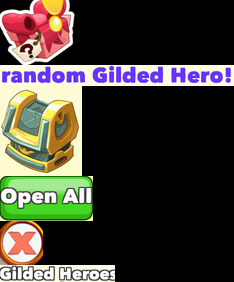
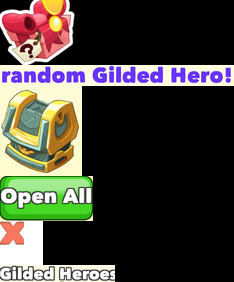
Exclude changing scenery from control templates

Changed region(s): [[0.0, 0.766, 0.2094, 0.9645]]

diff --git a/control_background_test.go b/control_background_test.go
@@ -1,0 +1,67 @@
+package main
+
+import (
+	"fmt"
+	"image"
+	"image/color"
+	"image/draw"
+	"testing"
+)
+
+func TestControlsIgnoreSurroundingScenery(t *testing.T) {
+	cases := []struct {
+		name, fixture string
+		core          image.Rectangle
+		find          func(image.Image) (image.Point, bool, error)
+	}{
+		{"menu close", "save-menu.png", image.Rect(1006, 137, 1034, 165), func(img image.Image) (image.Point, bool, error) { return saveControl(img, 1) }},
+		{"settings", "ascension-ancients.png", image.Rect(1233, 17, 1255, 39), func(img image.Image) (image.Point, bool, error) { return saveControl(img, 2) }},
+		{"ascension", "ascension-ancients.png", image.Rect(1237, 247, 1251, 263), func(img image.Image) (image.Point, bool, error) { return ascensionControl(img, ascensionSpiral) }},
+		{"gild close", "gild-roster.png", image.Rect(1137, 27, 1161, 51), func(img image.Image) (image.Point, bool, error) {
+			return gildActionPoint(gameFrame{image: img, context: gameContext{modal: gildRosterModal}})
+		}},
+		{"single gild close", "gild-reward.png", image.Rect(982, 116, 1006, 140), func(img image.Image) (image.Point, bool, error) {
+			return gildActionPoint(gameFrame{image: img, context: gameContext{modal: gildRewardModal}})
+		}},
+	}
+	backgrounds := []color.Color{color.Black, color.White, color.RGBA{0, 170, 230, 255}}
+	for _, tc := range cases {
+		for _, width := range []int{1280, 2560} {
+			original := exportFixture(t, tc.fixture, width)
+			core := controlRect(original, tc.core)
+			for bg, background := range backgrounds {
+				for _, state := range []string{"present", "missing", "wrong"} {
+					t.Run(fmt.Sprintf("%s/%d/background%d/%s", tc.name, width, bg, state), func(t *testing.T) {
+						img := image.NewRGBA(original.Bounds())
+						draw.Draw(img, img.Bounds(), original, original.Bounds().Min, draw.Src)
+						// Hide Open All so the single-reward path must recognize its X.
+						if tc.name == "single gild close" {
+							draw.Draw(img, controlRect(img, image.Rect(885, 528, 989, 583)), image.NewUniform(background), image.Point{}, draw.Src)
+						}
+						draw.Draw(img, core.Inset(-20*width/1280), image.NewUniform(background), image.Point{}, draw.Src)
+						switch state {
+						case "present":
+							draw.Draw(img, core, original, core.Min, draw.Src)
+						case "wrong":
+							// An unrelated striped shape must not identify an icon.
+							for y := core.Min.Y; y < core.Max.Y; y++ {
+								shade := color.Black
+								if (y-core.Min.Y)/(3*width/1280)%2 == 0 {
+									shade = color.White
+								}
+								draw.Draw(img, image.Rect(core.Min.X, y, core.Max.X, y+1), image.NewUniform(shade), image.Point{}, draw.Src)
+							}
+						}
+						point, found, err := tc.find(img)
+						if err != nil || found != (state == "present") {
+							t.Fatalf("point=%v found=%v error=%v", point, found, err)
+						}
+						if found && !point.In(core) {
+							t.Fatalf("click outside icon: %v", point)
+						}
+					})
+				}
+			}
+		}
+	}
+}

diff --git a/save_export.go b/save_export.go
@@ -13,8 +13,9 @@ var saveControlsPNG []byte
 var saveControlsImage decodedPNG
 
 func saveControl(screen image.Image, which int) (image.Point, bool, error) {
-	regions := [...]image.Rectangle{image.Rect(290, 192, 449, 216), image.Rect(997, 133, 1042, 177), image.Rect(1225, 9, 1264, 48)}
-	refs := [...]image.Rectangle{image.Rect(0, 0, 318, 48), image.Rect(0, 48, 90, 136), image.Rect(0, 136, 78, 214)}
+	// Icon patches stay inside the opaque artwork, excluding surrounding scenery.
+	regions := [...]image.Rectangle{image.Rect(290, 192, 449, 216), image.Rect(1006, 137, 1034, 165), image.Rect(1233, 17, 1255, 39)}
+	refs := [...]image.Rectangle{image.Rect(0, 0, 318, 48), image.Rect(0, 48, 56, 104), image.Rect(0, 104, 44, 148)}
 	atlas, err := saveControlsImage.get(saveControlsPNG)
 	if err != nil {
 		return image.Point{}, false, err

diff --git a/ascension.go b/ascension.go
@@ -36,13 +36,13 @@ func ascensionControl(screen image.Image, control int) (image.Point, bool, error
 		return image.Point{}, false, nil
 	}
 	regions := [...]image.Rectangle{
-		image.Rect(1232, 240, 1255, 268), // Right-hand World Ascension spiral.
+		image.Rect(1237, 247, 1251, 263), // Opaque center of the World Ascension spiral.
 		image.Rect(502, 108, 778, 130),   // Specific Ascension dialog title.
 		image.Rect(485, 468, 625, 530),   // Yes; Quick Ascension is a different button below it.
 		image.Rect(655, 468, 796, 530),   // No.
 	}
 	references := [...]image.Rectangle{
-		image.Rect(0, 0, 46, 56), image.Rect(0, 56, 552, 100),
+		image.Rect(0, 0, 28, 32), image.Rect(0, 56, 552, 100),
 		image.Rect(0, 100, 280, 224), image.Rect(0, 224, 282, 348),
 	}
 	atlas, err := ascensionControlsImage.get(ascensionControlsPNG)

diff --git a/gilds.go b/gilds.go
@@ -117,9 +117,9 @@ func gildActionPoint(frame gameFrame) (image.Point, bool, error) {
 			return controlRect(frame.image, region).Min.Add(controlRect(frame.image, region).Size().Div(2)), found, err
 		}
 		// One or two pending gifts may have no Open All; finish via the visible close button.
-		region, reference = image.Rect(973, 106, 1016, 150), image.Rect(0, 221, 43, 265)
+		region, reference = image.Rect(982, 116, 1006, 140), image.Rect(0, 221, 24, 245)
 	case gildRosterModal:
-		region, reference = image.Rect(1128, 17, 1171, 61), image.Rect(0, 221, 43, 265)
+		region, reference = image.Rect(1137, 27, 1161, 51), image.Rect(0, 221, 24, 245)
 	default:
 		return image.Point{}, false, nil
 	}
